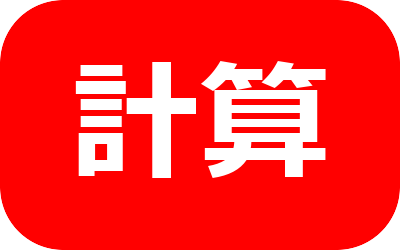
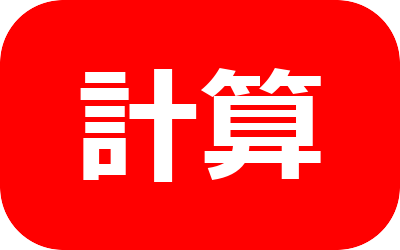
Add files via upload

Changed region(s): [[0.18, 0.224, 0.84, 0.728], [0.57, 0.672, 0.6, 0.7]]

diff --git a/css/style.css b/css/style.css
@@ -82,7 +82,7 @@ button img {
 
 #keisan img {
   height: 45px;
-  margin-left: 10px;
+  margin-left: 18px;
 }
 
 #btn3 {
